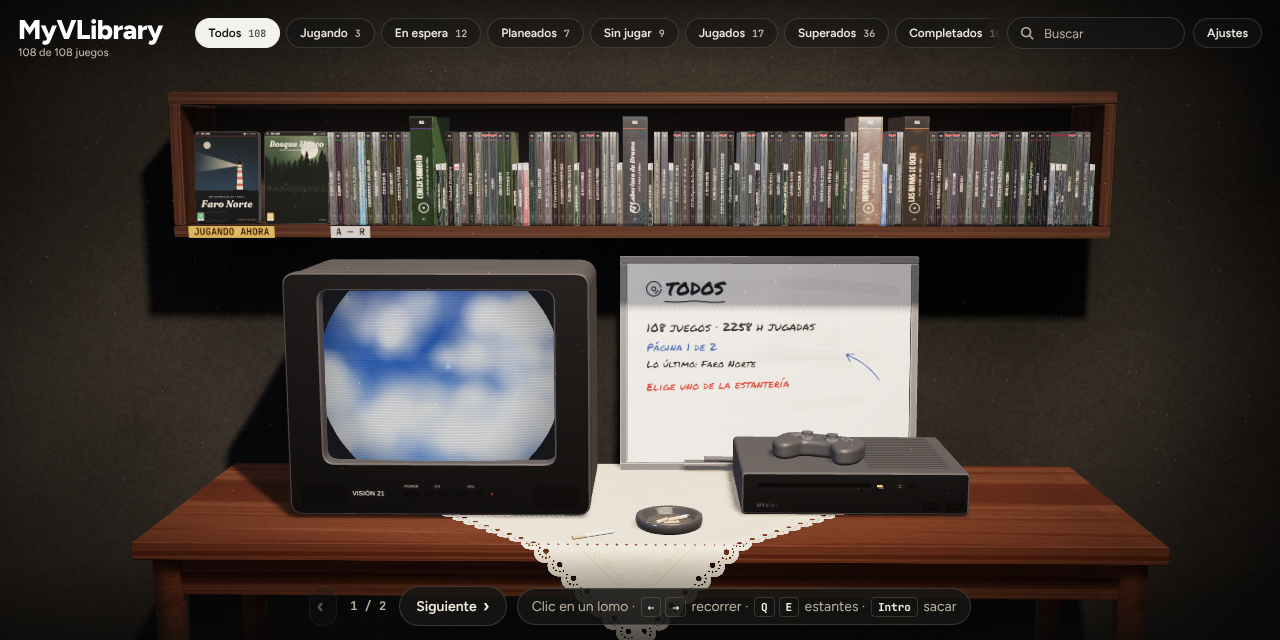
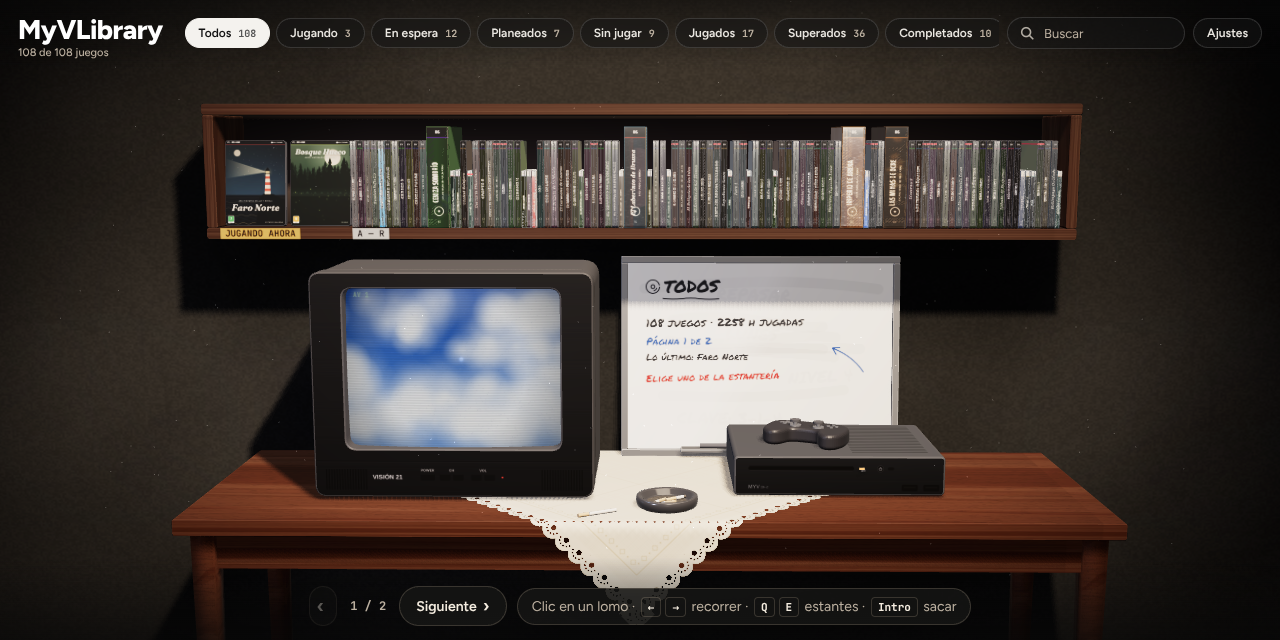
Encuadre más amplio, mando sin pulsaciones dobles y listado del paquete en CI
- La vista general deja más aire alrededor de la balda y la mesa.
- En pantalla completa, una pulsación del mando no cuenta dos veces aunque Playnite
  la convierta también en flecha del teclado.
- Si otra extensión ya cargó WebView2, se reutiliza su cargador.
- GitHub Actions anota qué archivos lleva el .pext.

Claude-Session: https://claude.ai/code/session_01FdZWHDgAmhmqodADfimVVr

diff --git a/web/src/head.html b/web/src/head.html
@@ -41,7 +41,7 @@ button,select,input,textarea{font:inherit;color:inherit}
 .brand b{display:block;font:800 27px/1 var(--f-body);letter-spacing:-.02em;color:#fff}
 .brand span{display:block;font:500 11px/1.3 var(--f-body);color:var(--ink-dim)}
 .tools{display:flex;gap:8px;align-items:center;min-width:0;flex:1;justify-content:flex-end}
-.pills{display:flex;gap:6px;overflow-x:auto;scrollbar-width:none;min-width:0;padding:2px;mask-image:linear-gradient(90deg,transparent 0,#000 14px,#000 calc(100% - 14px),transparent 100%);-webkit-mask-image:linear-gradient(90deg,transparent 0,#000 14px,#000 calc(100% - 14px),transparent 100%);padding-left:12px;padding-right:12px}
+.pills{display:flex;gap:6px;overflow-x:auto;scrollbar-width:none;min-width:0;padding:2px}
 .pills::-webkit-scrollbar{display:none}
 .pill-btn{flex:none;height:30px;padding:0 13px;border-radius:999px;border:1px solid rgba(255,255,255,.13);background:rgba(20,20,20,.55);color:#e9e6e0;font:600 12px var(--f-body);cursor:pointer;display:inline-flex;align-items:center;gap:7px;white-space:nowrap;backdrop-filter:blur(6px);-webkit-backdrop-filter:blur(6px)}
 .pill-btn span{font:600 10px var(--f-mono);color:var(--ink-dim)}

diff --git a/web/src/45-bridge.js b/web/src/45-bridge.js
@@ -191,10 +191,14 @@ const LIB = {
       case 'resume': this.paused = false; lastT = performance.now(); break;
     }
   },
+  /* Playnite may also turn the stick and the d-pad into arrow keys; the same press must not count twice */
+  recent: { key: '', t: 0, from: '' },
+  dupe(key, from) { const now = performance.now(), r = this.recent, d = r.key === key && r.from !== from && now - r.t < 160; this.recent = { key, t: now, from }; return d; },
   pad(button, state) {
     this.hostPad = true; if (state !== 'Pressed') return;
     const map = { A: 'Enter', B: 'Escape', X: 'm', Y: 'f', Start: 'Enter', Back: 'i', LeftShoulder: 'q', RightShoulder: 'e', TriggerLeft: 'PageUp', TriggerRight: 'PageDown', DPadUp: 'ArrowUp', DPadDown: 'ArrowDown', DPadLeft: 'ArrowLeft', DPadRight: 'ArrowRight', LeftStickUp: 'ArrowUp', LeftStickDown: 'ArrowDown', LeftStickLeft: 'ArrowLeft', LeftStickRight: 'ArrowRight' };
     const k = map[button]; if (!k) return;
+    if (this.dupe(k, 'pad')) return;
     sfx.init();
     if (k === 'Escape' && mode === 'shelf' && PN_STATE.mode === 'fullscreen') { this.send('close'); return; }
     handleKey(k);

diff --git a/web/src/20-motion.js b/web/src/20-motion.js
@@ -19,7 +19,7 @@ function viewPose(name, outPos, outLook) {
     box = narrow ? { cx: CON.x - 14, cy: TABLE.top + 22, w: 86, h: 110 } : { cx: (TV.x + CON.x) / 2 + 8, cy: TABLE.top + 26, w: 150, h: 70 }; dir = new V3(-.06, .2, 1);
   } else {
     /* the reference shot: shelf at the top, table and its things below, a little from above */
-    box = narrow ? { cx: SHELF.cx, cy: 112, w: 120, h: 150 } : { cx: SHELF.cx, cy: 109, w: 214, h: 112 }; dir = new V3(0, .14, 1);
+    box = narrow ? { cx: SHELF.cx, cy: 108, w: 200, h: 130 } : { cx: SHELF.cx, cy: 108, w: 232, h: 122 }; dir = new V3(0, .14, 1);
   }
   dir.normalize(); outLook.set(box.cx, box.cy, 0); outPos.copy(outLook).addScaledVector(dir, fitDist(box.w, box.h));
 }

diff --git a/web/src/12-ambients.js b/web/src/12-ambients.js
@@ -459,7 +459,7 @@ function makeSquareCloth(kind) {
 }
 
 /* ---------- where props can go in this room ---------- */
-const SLOTS = { wallL: [-118, 118], wallR: [116, 118], floorL: [-120, 16], floorR: [118, 16], tableL: [-81, 31], tableR: [79, 31], shelfTop: SHELF.top + SHELF.th };
+const SLOTS = { wallL: [-112, 118], wallR: [110, 118], floorL: [-120, 16], floorR: [118, 16], tableL: [-81, 31], tableR: [79, 31], shelfTop: SHELF.top + SHELF.th };
 function onTable(g) { g.position.y += TABLE.top; return g; }
 
 /* ---------- presets ---------- */

diff --git a/web/src/50-main.js b/web/src/50-main.js
@@ -106,6 +106,7 @@ window.addEventListener('keydown', e => {
   if (tag === 'INPUT' || tag === 'SELECT') { if (e.key === 'Escape') tg.blur(); return; }
   if (tag === 'BUTTON' && (e.key === 'Enter' || e.key === ' ')) return;
   if (e.key === 'Escape' && !setPop.hidden) { setPop.hidden = true; return; }
+  if (LIB.hostPad && /^(Arrow|Page)/.test(e.key) && LIB.dupe(e.key, 'key')) { e.preventDefault(); return; }
   sfx.init(); if (handleKey(e.key)) e.preventDefault();
 });
 const gp = { prev: {}, stickT: 0 };

diff --git a/extension/ShelfHost.cs b/extension/ShelfHost.cs
@@ -66,7 +66,15 @@ namespace MyVLibrary
                 var loaderDir = Path.Combine(plugin.PluginDir, "runtimes", "win-" + arch, "native");
                 if (File.Exists(Path.Combine(loaderDir, "WebView2Loader.dll")))
                 {
-                    CoreWebView2Environment.SetLoaderDllFolderPath(loaderDir);
+                    try
+                    {
+                        CoreWebView2Environment.SetLoaderDllFolderPath(loaderDir);
+                    }
+                    catch (Exception e)
+                    {
+                        // another extension already loaded WebView2 in this process: its loader works for us too
+                        logger.Warn(e, "MyVLibrary: WebView2Loader ya estaba cargado");
+                    }
                 }
 
                 var dataDir = Path.Combine(plugin.GetPluginUserDataPath(), "WebView2");
